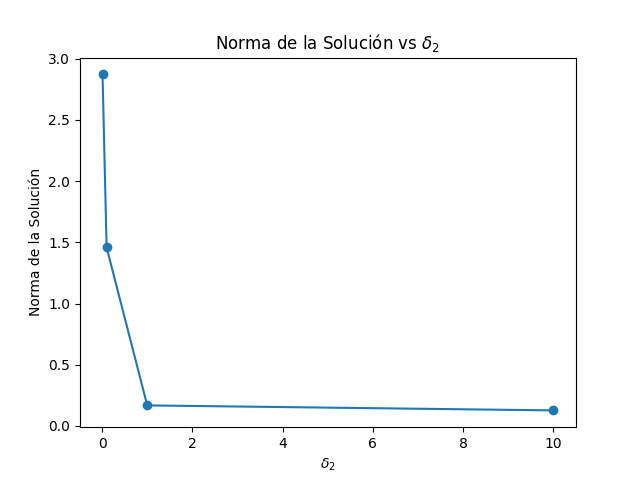
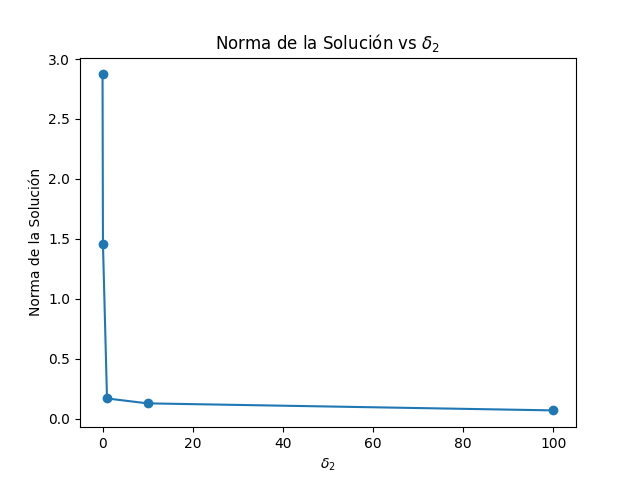
.)

diff --git a/TP4/segundobychat.py b/TP4/segundobychat.py
@@ -47,84 +47,100 @@ U, Sigma, VT = np.linalg.svd(A, full_matrices=False)
 x_svd = VT.T @ np.linalg.inv(np.diag(Sigma)) @ U.T @ b
 
 # Parámetros de regularización
-delta2_values = [0.01, 0.1, 1, 10]
+delta2_values = [0.01, 0.1, 1, 10, 100]
 
 # Gráficos para diferentes valores de delta2
-for delta2 in delta2_values:
+colors = ['b', 'g', 'r', 'c', 'm']
+markers = ['o', 's', 'd', 'x', '+']
+
+# Evolución del costo F2 para diferentes valores de delta2
+plt.figure()
+for i, delta2 in enumerate(delta2_values):
     history_F2 = gradient_descent(grad_F2, x0, step_size, max_iter, delta2)
     cost_F2 = [F2(x, delta2) for x in history_F2]
     
-    plt.figure()
-    plt.plot(cost_F2, label=f'$F_2(x_k)$ con $\\delta_2={delta2}$')
-    plt.axhline(y=F2(x_svd, delta2), color='r', linestyle='--', label='$F_2(x^*)$ (SVD)')
-    plt.yscale('log')
-    plt.xlabel('Iteraciones')
-    plt.ylabel('Costo')
-    plt.legend()
-    plt.title(f'Evolución del costo $F_2$ para $\\delta_2={delta2}$')
-    plt.savefig(f'costo_evolucion_F2_delta2_{delta2}.png')
-    plt.show()
+    plt.plot(cost_F2, label=f'$F_2(x_k)$ con $\\delta_2={delta2}$', color=colors[i])
+    plt.axhline(y=F2(x_svd, delta2), color=colors[i], linestyle='--', label=f'$F_2(x^*)$ con $\\delta_2={delta2}$')
+    
+plt.yscale('log')
+plt.xlabel('Iteraciones')
+plt.ylabel('Costo')
+plt.legend()
+plt.title('Evolución del costo $F_2$ para diferentes valores de $\\delta_2$')
+plt.savefig('costo_evolucion_F2_delta2.png')
+plt.show()
 
-    plt.figure()
-    plt.plot(history_F2[-1], label=f'Gradiente Descendente con $\\delta_2={delta2}$')
-    plt.plot(x_svd, label='Solución mediante SVD', linestyle='dashed')
-    plt.xlabel('Índice')
-    plt.ylabel('Valor de x')
-    plt.legend()
-    plt.title(f'Solución obtenida con $\\delta_2={delta2}$')
-    plt.savefig(f'solucion_comparacion_delta2_{delta2}.png')
-    plt.show()
+# Comparación de la solución obtenida con regularización L2 para diferentes valores de delta2
+plt.figure()
+for i, delta2 in enumerate(delta2_values):
+    history_F2 = gradient_descent(grad_F2, x0, step_size, max_iter, delta2)
+    plt.scatter(np.arange(d), history_F2[-1], label=f'$\\delta_2={delta2}$', color=colors[i], marker=markers[i])
+plt.scatter(np.arange(d), x_svd, label='Solución mediante SVD', color='k', marker='x')
+plt.xlabel('Índice')
+plt.ylabel('Valor de x')
+plt.legend()
+plt.title('Comparación de la solución obtenida con diferentes valores de $\\delta_2$')
+plt.savefig('solucion_comparacion_delta2.png')
+plt.show()
 
-# Desviación estándar y norma de la solución obtenida con regularización L2
+# Desviación estándar de la solución obtenida con regularización L2 para diferentes valores de delta2
 std_dev = []
-norms = []
-
 for delta2 in delta2_values:
     history_F2 = gradient_descent(grad_F2, x0, step_size, max_iter, delta2)
     std_dev.append(np.std(history_F2[-1]))
-    norms.append(np.linalg.norm(history_F2[-1]))
 
 plt.figure()
-plt.plot(delta2_values, std_dev, marker='o')
+plt.plot(delta2_values, std_dev, 'o-')
 plt.xlabel('$\\delta_2$')
 plt.ylabel('Desviación Estándar')
 plt.title('Desviación Estándar de la Solución vs $\\delta_2$')
 plt.savefig('desviacion_estandar.png')
 plt.show()
 
+# Norma de la solución obtenida con regularización L2 para diferentes valores de delta2
+norms = []
+for delta2 in delta2_values:
+    history_F2 = gradient_descent(grad_F2, x0, step_size, max_iter, delta2)
+    norms.append(np.linalg.norm(history_F2[-1]))
+
 plt.figure()
-plt.plot(delta2_values, norms, marker='o')
+plt.plot(delta2_values, norms, marker='o', linestyle='-')
 plt.xlabel('$\\delta_2$')
 plt.ylabel('Norma de la Solución')
 plt.title('Norma de la Solución vs $\\delta_2$')
 plt.savefig('norma_solucion.png')
 plt.show()
 
-# Evolución de la función de costo F y F2
+# Evolución de los valores singulares durante las iteraciones
+sigma_evolution = np.zeros((max_iter + 1, len(Sigma)))
+for i, delta2 in enumerate(delta2_values):
+    history_F2 = gradient_descent(grad_F2, x0, step_size, max_iter, delta2)
+    for j in range(max_iter + 1):
+        sigma_evolution[j, :] = np.linalg.svd(A @ history_F2[j].reshape(-1, 1), compute_uv=False)
+
+plt.figure()
+for i in range(len(Sigma)):
+    plt.plot(sigma_evolution[:, i], label=f'$\\sigma_{i+1}$')
+plt.xlabel('Iteraciones')
+plt.ylabel('Valores singulares')
+plt.title('Evolución de los valores singulares')
+plt.legend()
+plt.savefig('sigma_evolucion.png')
+plt.show()
+
+# Comparación de los errores relativos entre SVD y las soluciones obtenidas por los diferentes métodos
+errors = []
+for delta2 in delta2_values:
+    history_F2 = gradient_descent(grad_F2, x0, step_size, max_iter, delta2)
+    errors.append(np.linalg.norm(x_svd - history_F2[-1]) / np.linalg.norm(x_svd))
+
 history_F = gradient_descent(grad_F, x0, step_size, max_iter)
-cost_F = [F(x) for x in history_F]
-history_F2 = gradient_descent(grad_F2, x0, step_size, max_iter, delta2_values[-1])
-cost_F2 = [F2(x, delta2_values[-1]) for x in history_F2]
+error_F = np.linalg.norm(x_svd - history_F[-1]) / np.linalg.norm(x_svd)
 
-plt.figure(figsize=(14, 7))
-plt.subplot(1, 2, 1)
-plt.plot(cost_F2, label='$F_2(x_k)$')
-plt.axhline(y=F2(x_svd, delta2_values[-1]), color='r', linestyle='--', label='$F_2(x^*)$ (SVD)')
-plt.yscale('log')
-plt.xlabel('Iteraciones')
-plt.ylabel('Costo')
-plt.legend()
-plt.title('Evolución del costo $F_2$')
-
-plt.subplot(1, 2, 2)
-plt.plot(cost_F, label='$F(x_k)$')
-plt.axhline(y=F(x_svd), color='r', linestyle='--', label='$F(x^*)$ (SVD)')
-plt.yscale('log')
-plt.xlabel('Iteraciones')
-plt.ylabel('Costo')
-plt.legend()
-plt.title('Evolución del costo $F$')
-
-plt.tight_layout()
-plt.savefig('costo_evolucion_F_F2.png')
+plt.figure()
+plt.bar(['F sin regularizar'] + [f'$\\delta_2={delta2}$' for delta2 in delta2_values], [error_F] + errors, color=colors)
+plt.xlabel('Métodos')
+plt.ylabel('Error Relativo')
+plt.title('Error relativo entre SVD y las soluciones obtenidas')
+plt.savefig('error_relativo.png')
 plt.show()
